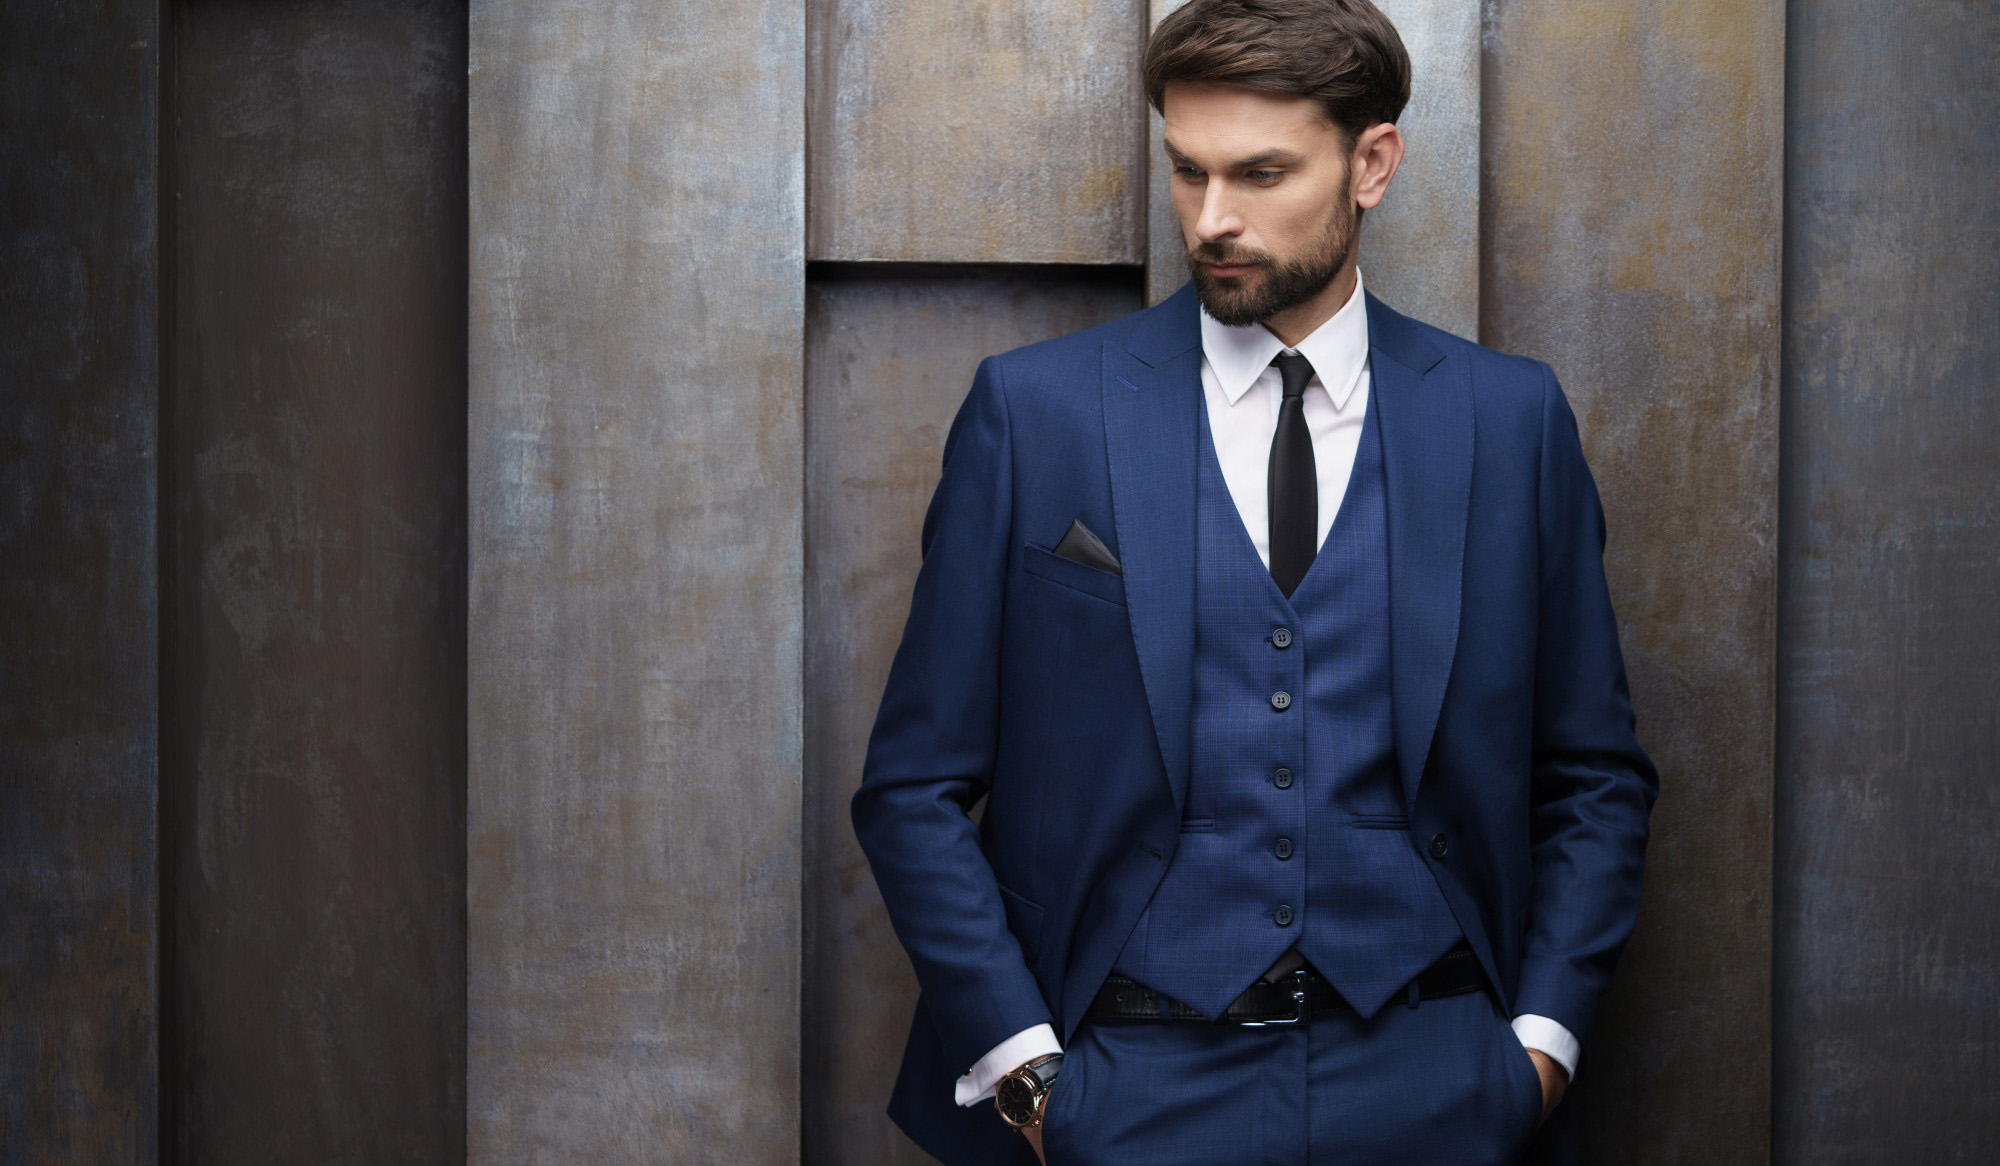
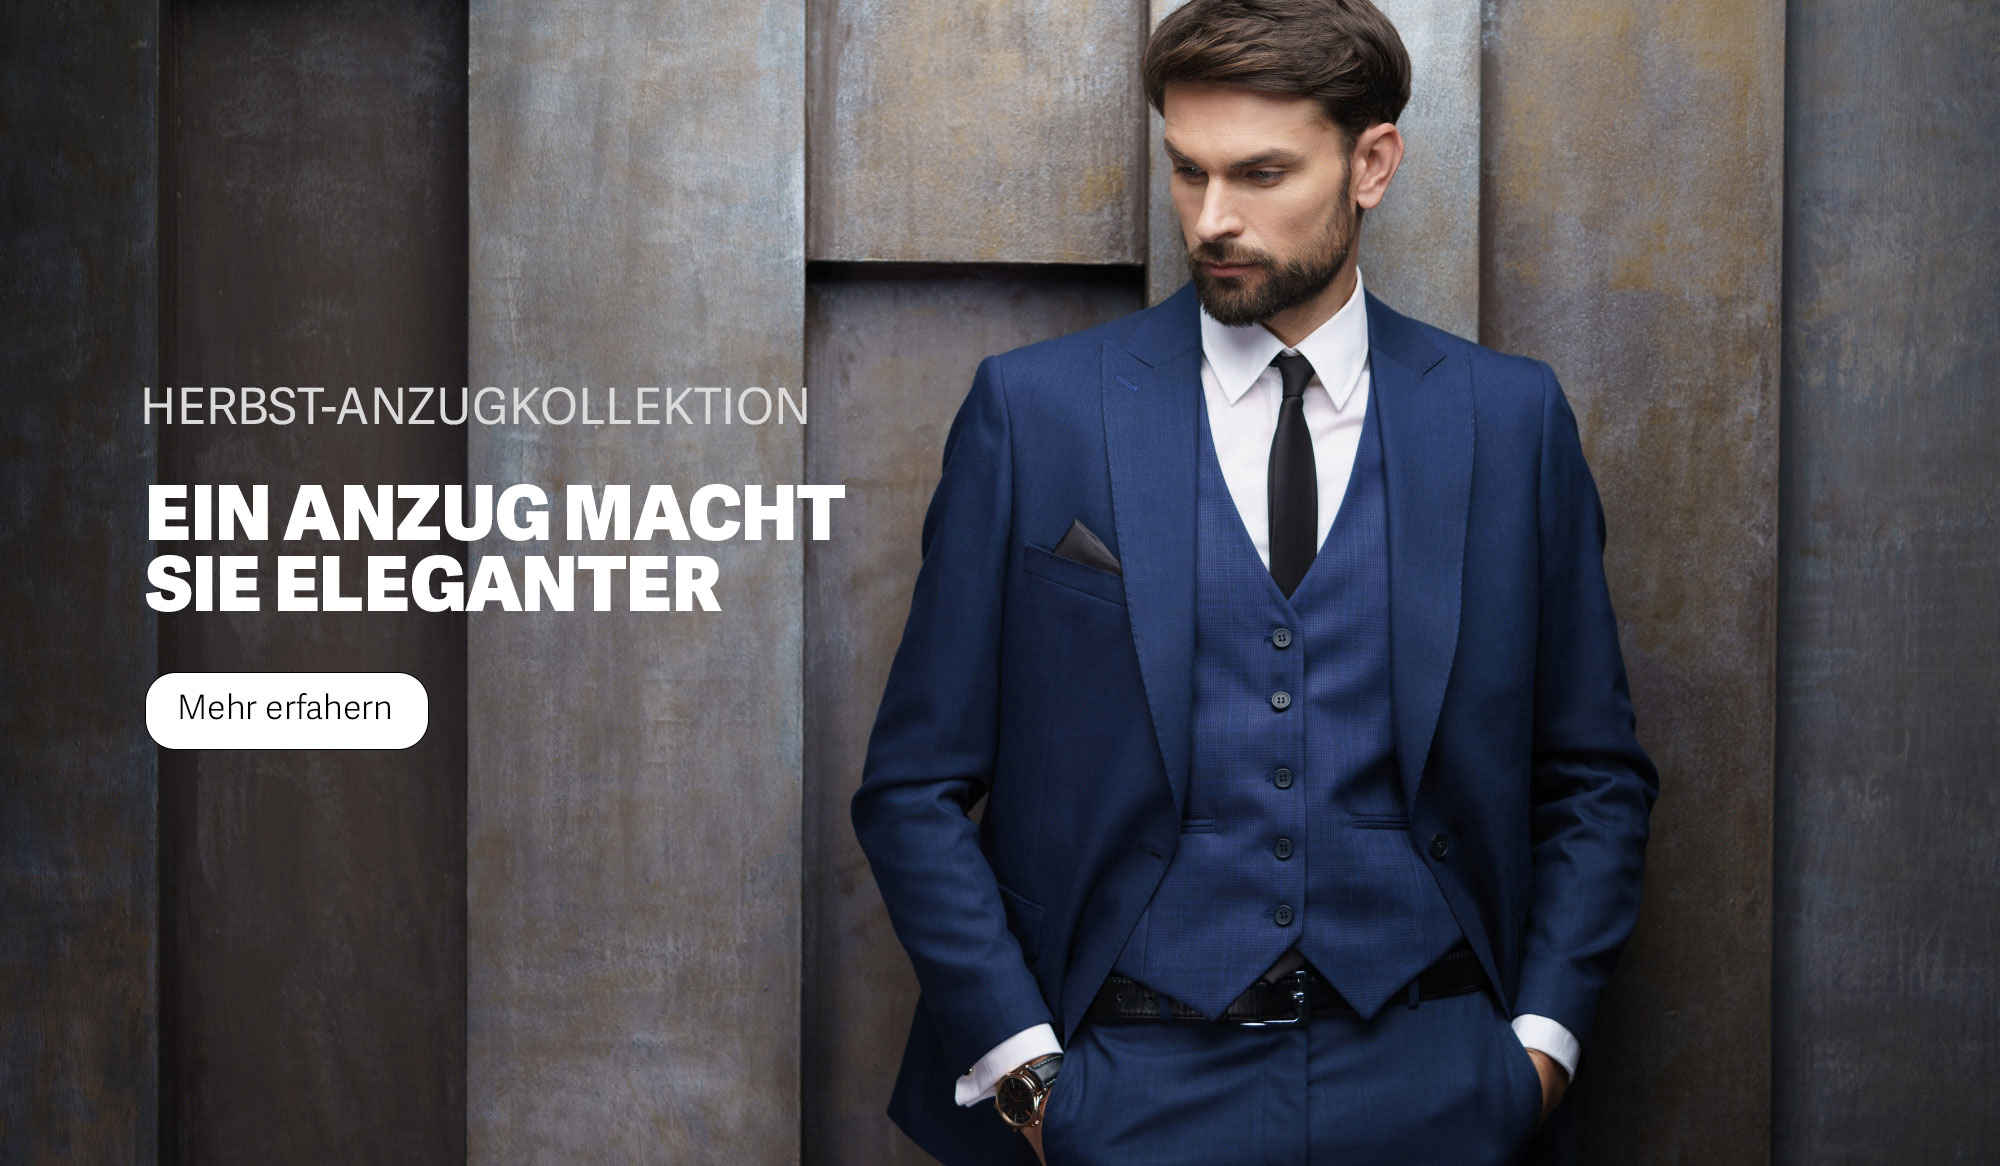
Slider picture changed and added

Changed region(s): [[0.062, 0.4014, 0.434, 0.5249], [0.062, 0.3087, 0.403, 0.3705], [0.062, 0.5557, 0.217, 0.6484]]

diff --git a/assets/css/output.css b/assets/css/output.css
@@ -664,10 +664,6 @@ video {
   grid-column: span 6 / span 6;
 }
 
-.col-start-2 {
-  grid-column-start: 2;
-}
-
 .mx-auto {
   margin-left: auto;
   margin-right: auto;
@@ -705,16 +701,16 @@ video {
   display: none;
 }
 
-.h-\[33rem\] {
-  height: 33rem;
+.h-auto {
+  height: auto;
 }
 
 .h-full {
   height: 100%;
 }
 
-.h-auto {
-  height: auto;
+.w-1\/2 {
+  width: 50%;
 }
 
 .w-48 {
@@ -725,16 +721,8 @@ video {
   width: 1.25rem;
 }
 
-.w-7 {
-  width: 1.75rem;
-}
-
 .w-full {
   width: 100%;
-}
-
-.w-1\/2 {
-  width: 50%;
 }
 
 .shrink {
@@ -869,12 +857,12 @@ video {
      object-fit: cover;
 }
 
-.p-3 {
-  padding: 0.75rem;
-}
-
 .p-2 {
   padding: 0.5rem;
+}
+
+.p-3 {
+  padding: 0.75rem;
 }
 
 .px-10 {
@@ -882,9 +870,19 @@ video {
   padding-right: 2.5rem;
 }
 
+.px-20 {
+  padding-left: 5rem;
+  padding-right: 5rem;
+}
+
 .px-5 {
   padding-left: 1.25rem;
   padding-right: 1.25rem;
+}
+
+.px-6 {
+  padding-left: 1.5rem;
+  padding-right: 1.5rem;
 }
 
 .py-2 {
@@ -902,21 +900,6 @@ video {
   padding-bottom: 1rem;
 }
 
-.px-20 {
-  padding-left: 5rem;
-  padding-right: 5rem;
-}
-
-.px-3 {
-  padding-left: 0.75rem;
-  padding-right: 0.75rem;
-}
-
-.px-6 {
-  padding-left: 1.5rem;
-  padding-right: 1.5rem;
-}
-
 .pe-3 {
   padding-inline-end: 0.75rem;
 }
@@ -925,21 +908,12 @@ video {
   padding-inline-start: 0.75rem;
 }
 
-.ps-4 {
-  padding-inline-start: 1rem;
-}
-
 .pt-4 {
   padding-top: 1rem;
 }
 
 .font-interBold {
   font-family: InterBold;
-}
-
-.text-sm {
-  font-size: 0.875rem;
-  line-height: 1.25rem;
 }
 
 .text-5xl {
@@ -952,17 +926,13 @@ video {
   line-height: 1.75rem;
 }
 
-.font-bold {
-  font-weight: 700;
+.text-sm {
+  font-size: 0.875rem;
+  line-height: 1.25rem;
 }
 
 .italic {
   font-style: italic;
-}
-
-.text-white {
-  --tw-text-opacity: 1;
-  color: rgb(255 255 255 / var(--tw-text-opacity, 1));
 }
 
 .text-black {
@@ -978,6 +948,11 @@ video {
 .text-gray-400 {
   --tw-text-opacity: 1;
   color: rgb(156 163 175 / var(--tw-text-opacity, 1));
+}
+
+.text-white {
+  --tw-text-opacity: 1;
+  color: rgb(255 255 255 / var(--tw-text-opacity, 1));
 }
 
 .outline {

diff --git a/index.html b/index.html
@@ -183,11 +183,31 @@
     </header>
     <!-- End Header -->
     <!--Start Main-->
-
+    <main class="w-full">
+        <!-- slider -->
+        <section class="container mx-auto xl:px-10 px-6 h-full">
+            <section class="grid grid-cols-6">
+                <section class="xl:col-start-2 xl:col-span-5 col-span-6 pt-4 xl:ps-4">
+                    <section class="w-full">
+                        <section id="mainslider" class="owl-carousel">
+                            <picture class="relative">
+                                <a href="#"><img class="w-full xl:h-[33rem] h-auto overflow-hidden object-cover"
+                                        src="./assets/img/slider.jpg" alt=""></a>
+                            </picture>
+                            <picture class="relative">
+                                <a href="#"><img class="w-full xl:h-[33rem] h-auto overflow-hidden object-cover"
+                                        src="./assets/img/slider2.jpg" alt=""></a>
+                            </picture>
+                        </section>
+                    </section>
+                </section>
+            </section>
+        </section>
+        <!-- slider -->
+    </main>
     <!--End Main-->
     <!-- Footer -->
     <footer>
-
         <!-- footer-Menu-sticky -->
         <section class="fixed z-50 bottom-0 start-0 xl:hidden w-full bg-white border-t border-gray-200">
             <nav class="grid grid-cols-4">
